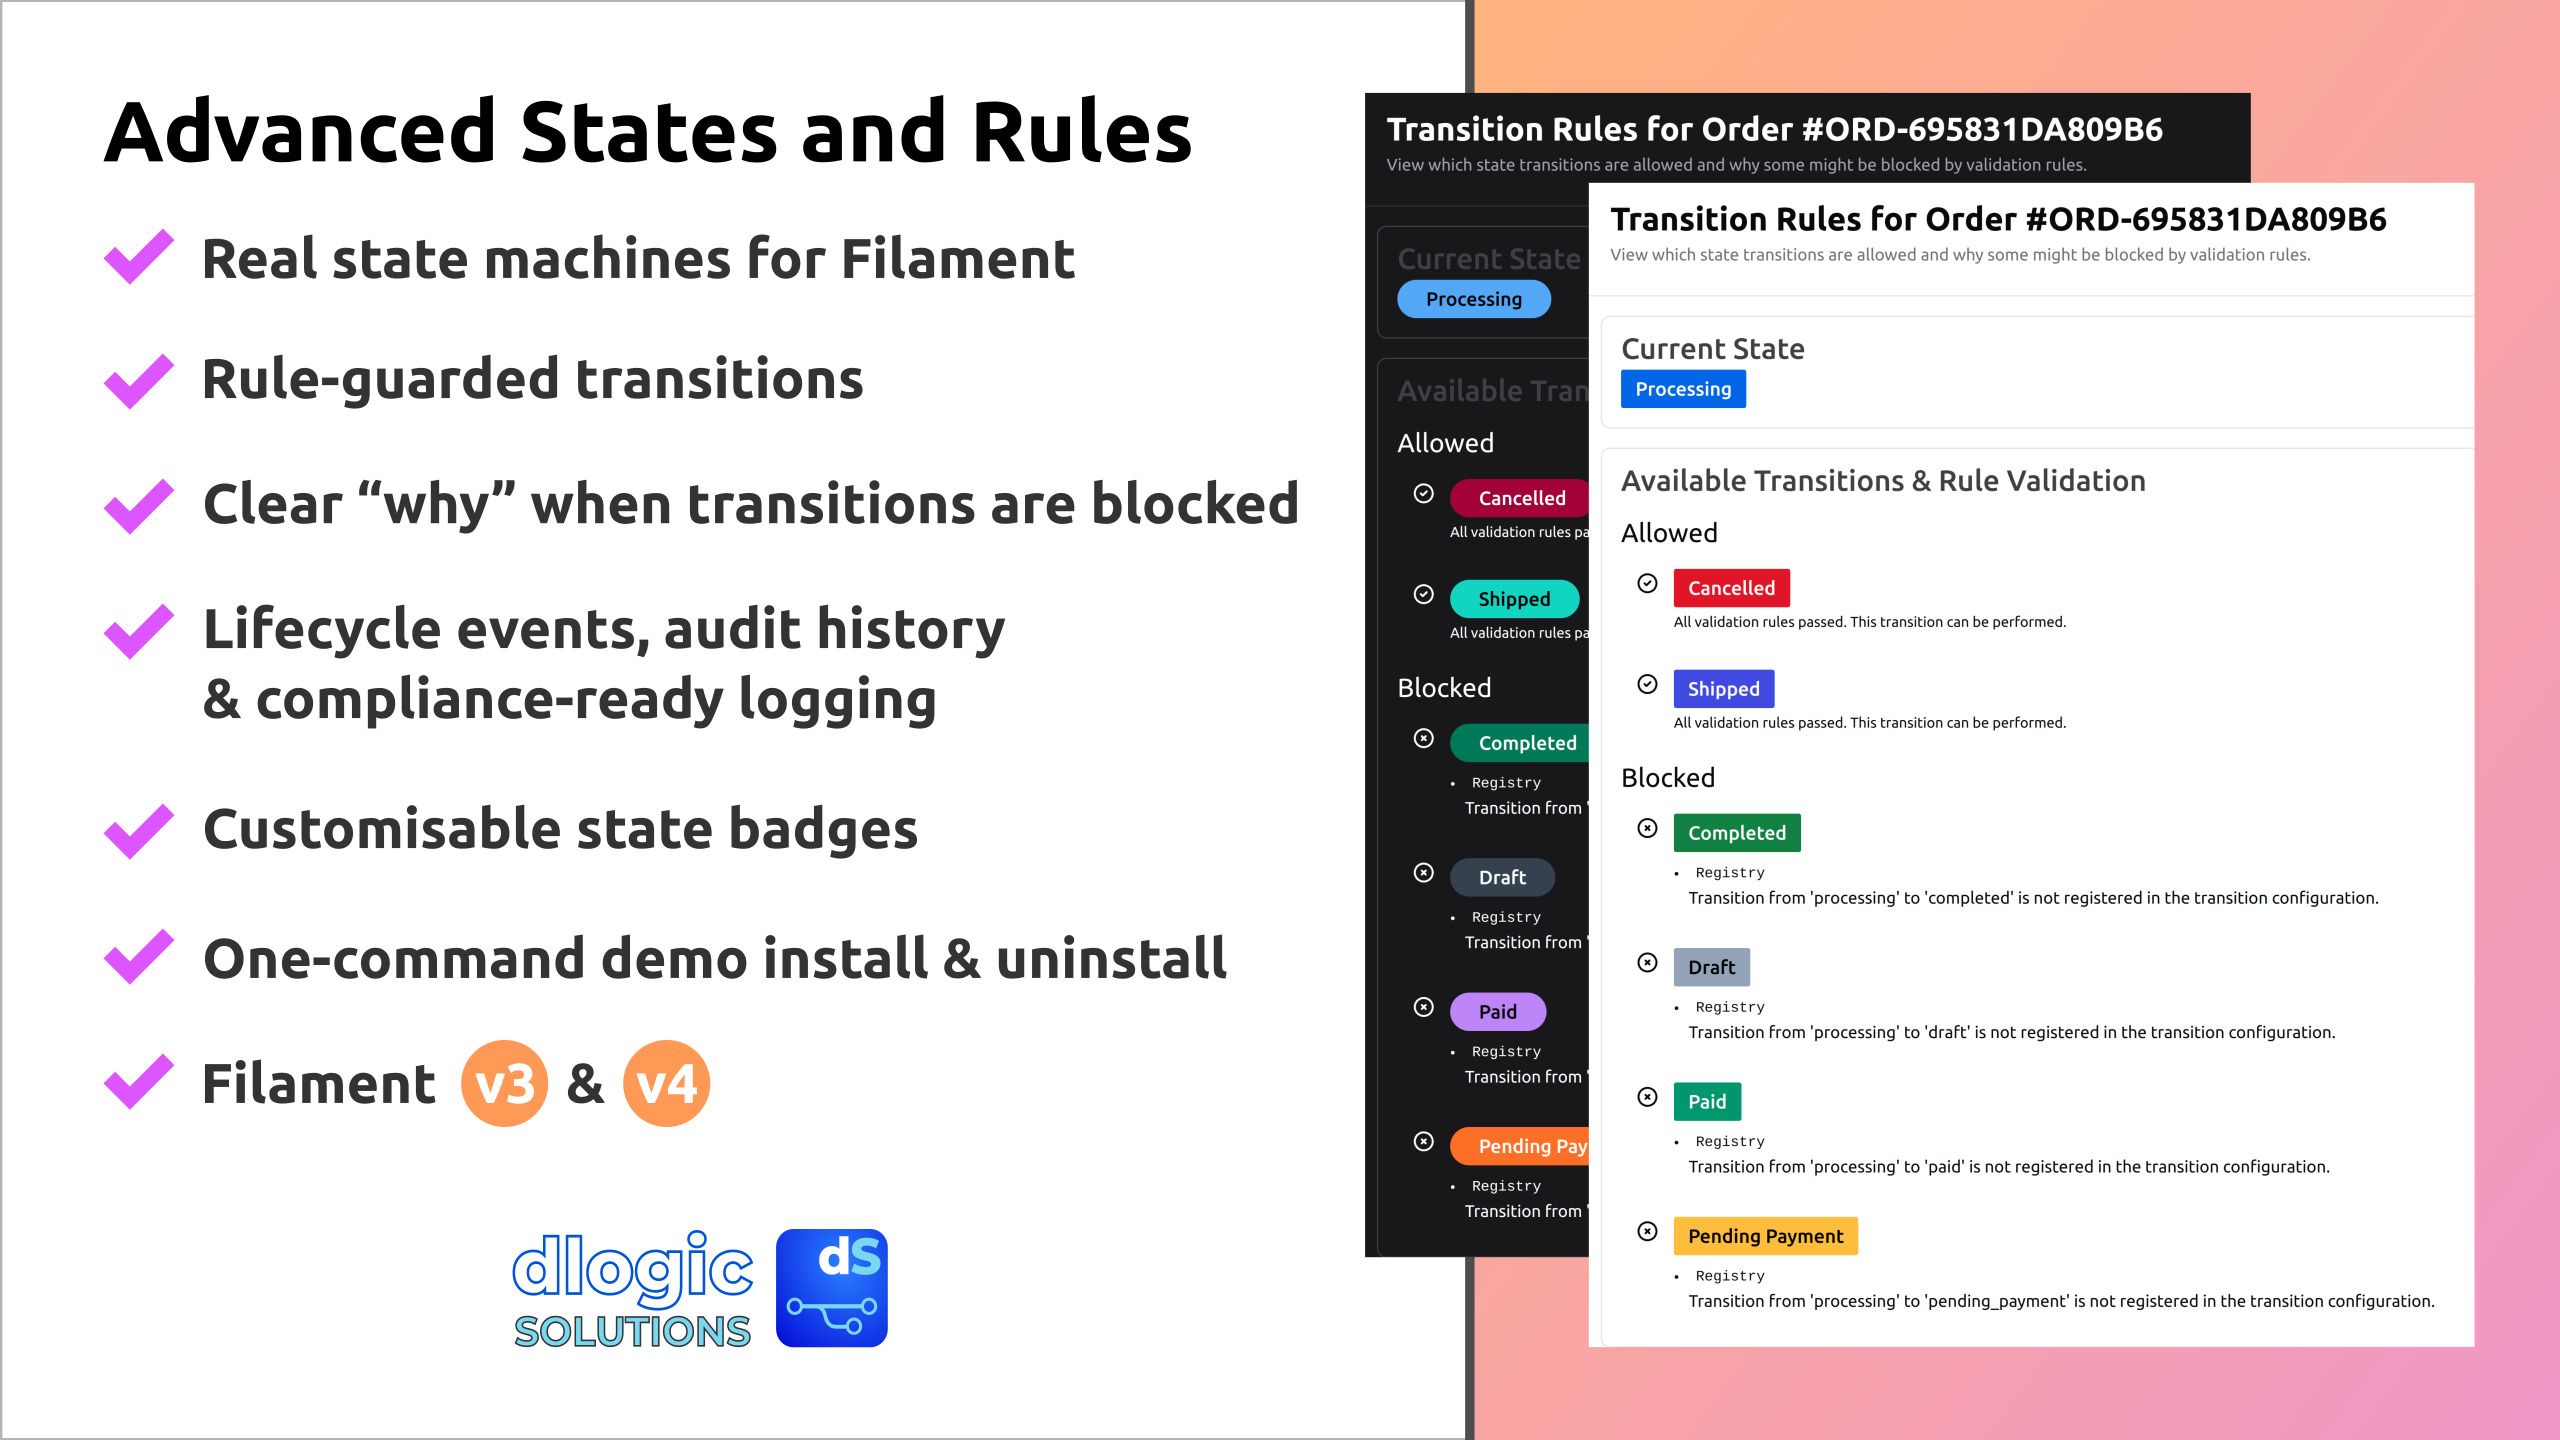
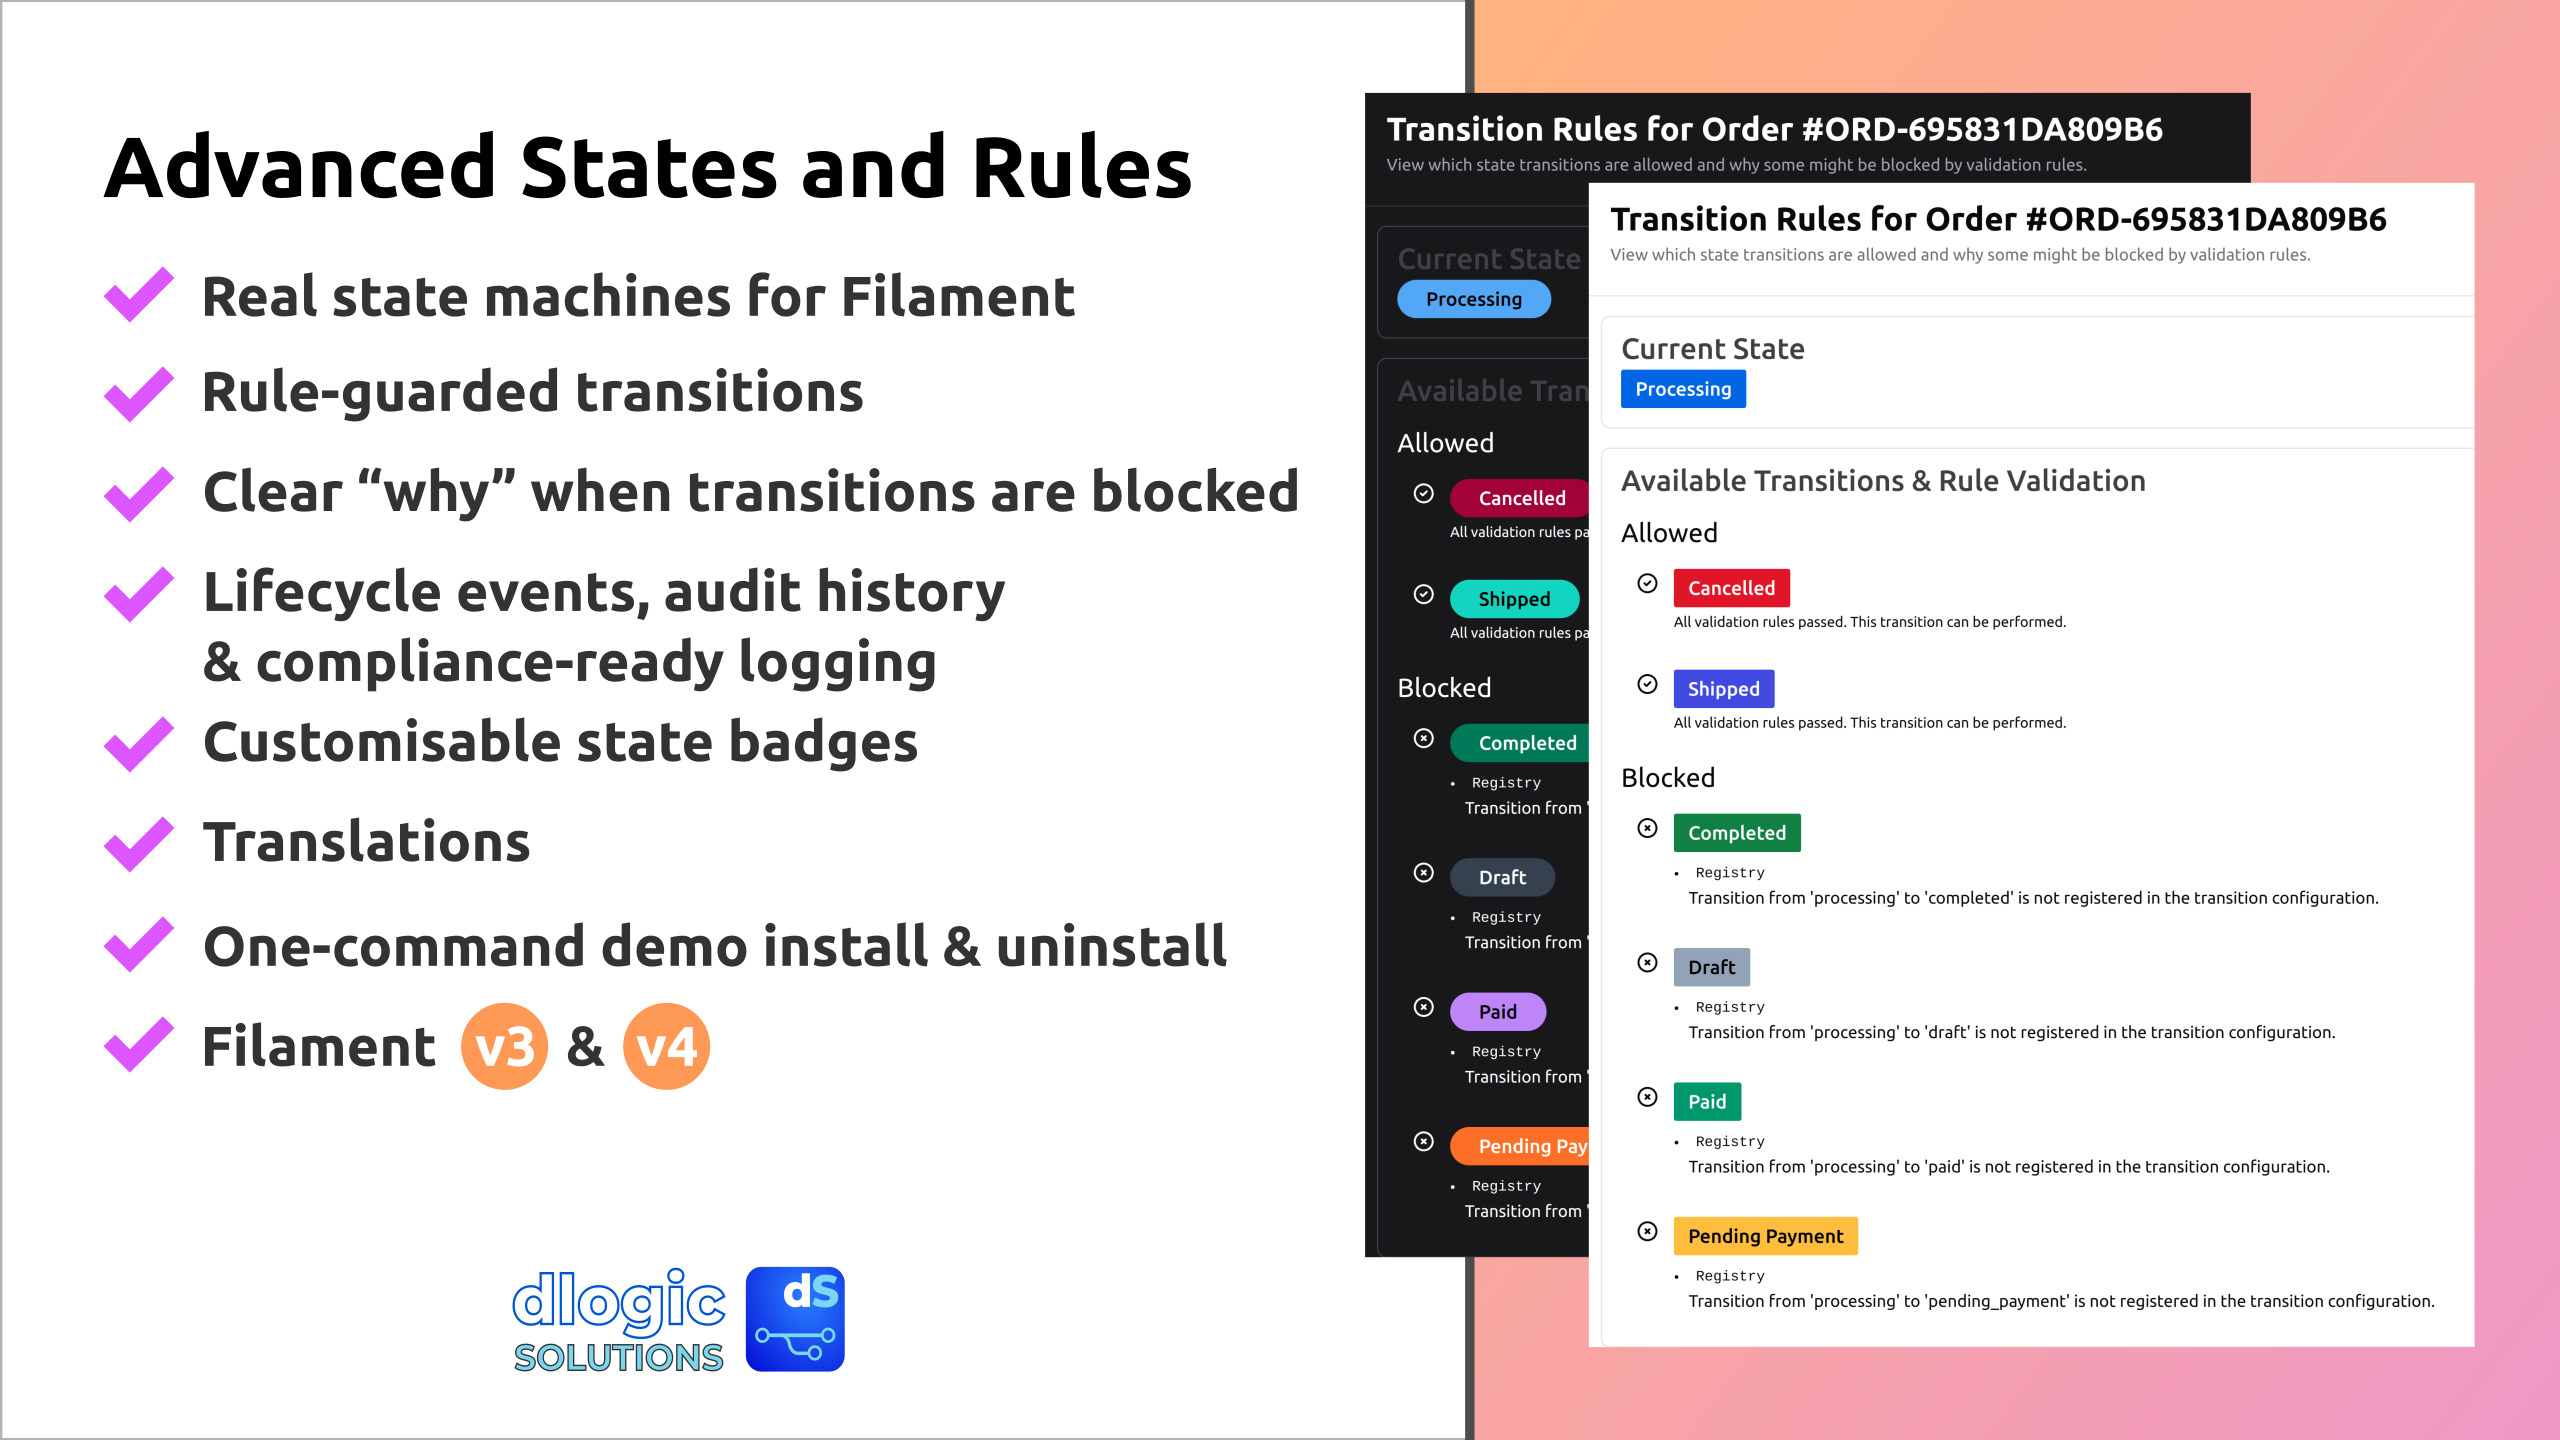
Translations were added to the package (as for version v1.1.0)

diff --git a/content/plugins/lubos-duda-advanced-states-and-rules.md b/content/plugins/lubos-duda-advanced-states-and-rules.md
@@ -9,7 +9,7 @@ docs_url: https://github.com/dlogic-solutions/filament-advanced-states-support
 github_repository: dlogic-solutions/filament-advanced-states
 anystack_id: a0c78245-7e00-4099-a147-7895cf636a4e
 has_dark_theme: true
-has_translations: false
+has_translations: true
 versions: [3, 4]
 publish_date: 2026-01-10
 ---
